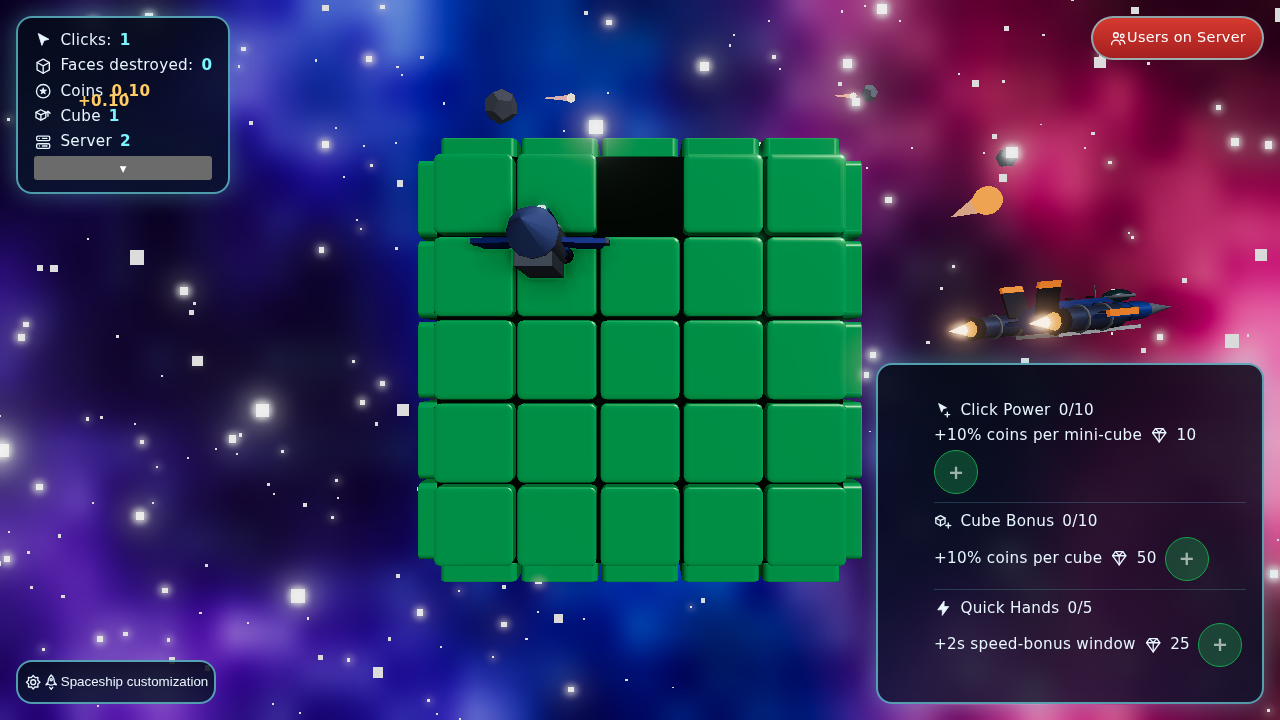
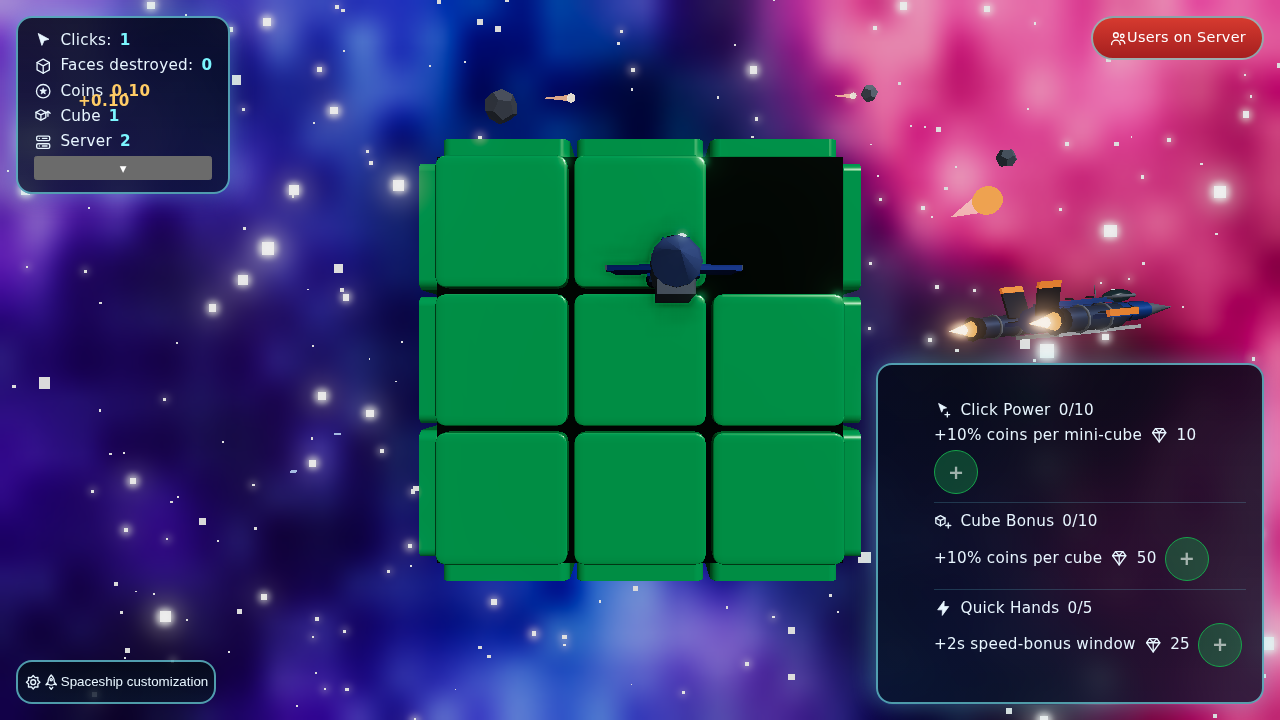
docs: record T3 verification

diff --git a/docs/features/small-destruction-shot-fx/build-log-T3.md b/docs/features/small-destruction-shot-fx/build-log-T3.md
@@ -5,6 +5,7 @@ Feature: small-destruction-shot-fx
 Branch: main (no branch switch)
 Fork point (recorded in `build-log-T1.md`): `BASE_SHA=92fcf84999cde086dbc2d6acc89629f73a2fe6d6`.
 HEAD before this commit: `9d46ffcf62f8fd942f2a6468e84bfe309ce4b499` (T2).
+T3 feature commit: `09c5f2523adb44ca841b04d9e736496e8f0591f1` (`feat: wire the destruction and shot effects`).
 
 Files changed:
 - `src/frontend/src/render/scene.ts` — wires the quality matrix, moves `cube.update` before the
@@ -120,6 +121,21 @@ count recorded per run.
   PRESENT: glowing tracer bolt with a muzzle flash
   ABSENT: vanishes on the same frame
   ```
+- **Post-commit exact gate output** (`BASE_SHA...HEAD` at T3 feature commit `09c5f25`):
+  ```
+  # POST-COMMIT diff gate BASE_SHA...HEAD
+  DIFF_EXIT=0
+  # POST-COMMIT import/URL/loader grep
+  IMPORT_GREP_EXIT=0
+  # POST-COMMIT asset diff
+  ASSET_DIFF_EXIT=0
+  # POST-COMMIT audio grep
+  AUDIO_GREP_EXIT=0
+  # POST-COMMIT index guard
+  INDEX_EXIT=0
+  ```
+  Re-run after the docs-only follow-up commit (which only updates this log and the reduced-frame
+  evidence): the same five gates exit 0; final HEAD differs from `09c5f25` only in those docs files.
 
 ### Manual visual evidence (AC-9)
 
@@ -152,6 +168,13 @@ measured offset). The 4 ms in-page state sampler independently records the pool/
   reaching 0 at **656.3 / 657.4 ms**; the targeted/screencast frame times above are the first captured
   frames after those state transitions (screencast cadence is ~16.7 ms). The tile is zero-scaled
   140 ms after the actual impact frame; the 333/335 ms frames show the hole with no core.
+- **Browser destroy sampler (1280×720, 4 ms interval; rest tile edge 0.7917).** Impact frame
+  `scale 1 / brightness 3`; +16 ms `1.073 / 2.629`; +26 ms `1.014 / 2.258`; +43 ms `0.723 / 1.889`;
+  +63 ms `0.480 / 1.518`; +83 ms `0.287 / 1.149`; +99 ms `0.143 / 1`; +115 ms `0.049 / 1`;
+  +132 ms `0.004 / 1`; +148 ms `0 / 1`. This is the pinned
+  `miniCubeDestroyScaleAt`/`miniCubeDestroyBrightnessAt` curve in the browser (the exact 0/15/30/85/140
+  and 0/45/90/140 values are pinned in `effects.test.ts` and re-pinned through `SceneView` in
+  `scene-effects.test.ts`); the 1920 sampler shows the same sequence.
 - No click frame shows a gold ray fan, gold coin glyph, ring or satellite ring. The only gold
   geometry on screen is the preserved level-complete banner (below); the click impact uses the
   white-hot core, amber/white embers and warm-grey smoke, plus the retained green shards and gold
@@ -162,13 +185,17 @@ measured offset). The 4 ms in-page state sampler independently records the pool/
   none` for `main`, `.hud-panel` and `.upgrades-panel`, and the camera position/quaternion is
   identical before/after (`cameraEq=true` in `visual-*.json`).
 - Reduced-motion pass (`prefers-reduced-motion: reduce` emulated):
-  - 1280×720: frame `t3-reduced-click-0110ms-1280x720.png`, state at 148 ms and 414.7 ms:
-    exactly one zero-scaled tile (`index 2`, scale `[0,0,0]`, colour `[1,1,1]`), 0 shards, 0 flash,
-    0 burst points, 0 sparks, 0 shot children, recoil 0, coin `+0.10`, no shake.
+  - 1280×720: click frame `t3-reduced-click-0120ms-1280x720.png` at **120 ms**; state at 120 ms
+    and 360 ms: exactly one zero-scaled tile (`index 2`, scale `[0,0,0]`, colour `[1,1,1]`),
+    0 shards, 0 flash, 0 burst points, 0 sparks, 0 shot children, recoil 0.
     Settled frame `t3-reduced-settled-0360ms-1280x720.png` at **360 ms**.
-  - 1920×1080: frame `t3-reduced-click-0111ms-1920x1080.png`, state at 150.9 ms and 462.2 ms:
-    the same zero state; settled frame `t3-reduced-settled-0345ms-1920x1080.png` at **345 ms**.
-  - `matchMedia('(prefers-reduced-motion: reduce)').matches === true` in both runs.
+  - 1920×1080: click frame `t3-reduced-click-0120ms-1920x1080.png` at **120 ms**; the same zero
+    state at 120 ms and 365 ms; settled frame
+    `t3-reduced-settled-0365ms-1920x1080.png` at **365 ms**.
+  - The separate live-DOM pass recorded coin `+0.10`, no-shake styles for `main`/`.hud-panel`/
+    `.upgrades-panel`, and `matchMedia('(prefers-reduced-motion: reduce)').matches === true` in both
+    sizes (frames at 110/148 ms before the targeted pass; retained reticle frames
+    `t3-reduced-reticle-1280x720.png` / `-1920x1080.png`).
 - Preserved level-complete banner/fly-by (production `levelIndex` rise, no harness trigger):
   - 1280×720: banner present, 24 rays (16 gold + 8 cyan), 3 rings, 12 stars, 20 coin elements,
     title `LEVEL COMPLETE`, CSS animation `none`; roll `maxAbs 6.2828`, 560 ms, 1 interval; HUD
@@ -264,7 +291,7 @@ Bars and result:
 | AC-6 | met | T2 `spaceship.test.ts`/`scene-spaceship.test.ts`; T3 `scene-effects.test.ts` pins `muzzle.z = 6.78`, muzzle flash 1→0 by 80 ms, recoil negative→0 by 120 ms and arrival at 180 ms. |
 | AC-7 | met | `scene.ts` wiring + new `scene-effects.test.ts` (9 tests) + camera equality; no gold names; HUD no-shake owned by the unchanged React/CSS suites. |
 | AC-8 | met | 135 = 65 + 70; caps 42/6/72/72; triangle +48/+8/−100; 36-run draw table above within every bar; recovery both sizes; JS gzip 272.73 kB. |
-| AC-9 | met | Evidence map above: all seven windows at 1280/1920, reduced frames at 110/360 and 111/345 ms, preserved coin/reticle/cursor/banner/fly-by/no-shake, no click gold fan/coins/ring. |
+| AC-9 | met | Evidence map above: all seven windows at 1280/1920, reduced frames at 120/360 and 120/365 ms, preserved coin/reticle/cursor/banner/fly-by/no-shake, no click gold fan/coins/ring. |
 | AC-10 | met | README phrase checks above; index guard exit 0; proposed row recorded; no `docs/architecture/**` or `docs/product/glossary.md` change needed (no stack, container, term or meaning change). |
 | AC-11 | met | Fork-point diff gate exit 0; import/URL/loader grep clean; asset diff empty; audio grep clean; no dependency/backend/protocol/container change. |
 | AC-12 | met | `npm run lint`, `npm run typecheck`, `npm test` (868 + 1738), `npm run coverage` (both workspaces ≥80×4), `npm run build` all exit 0. |
